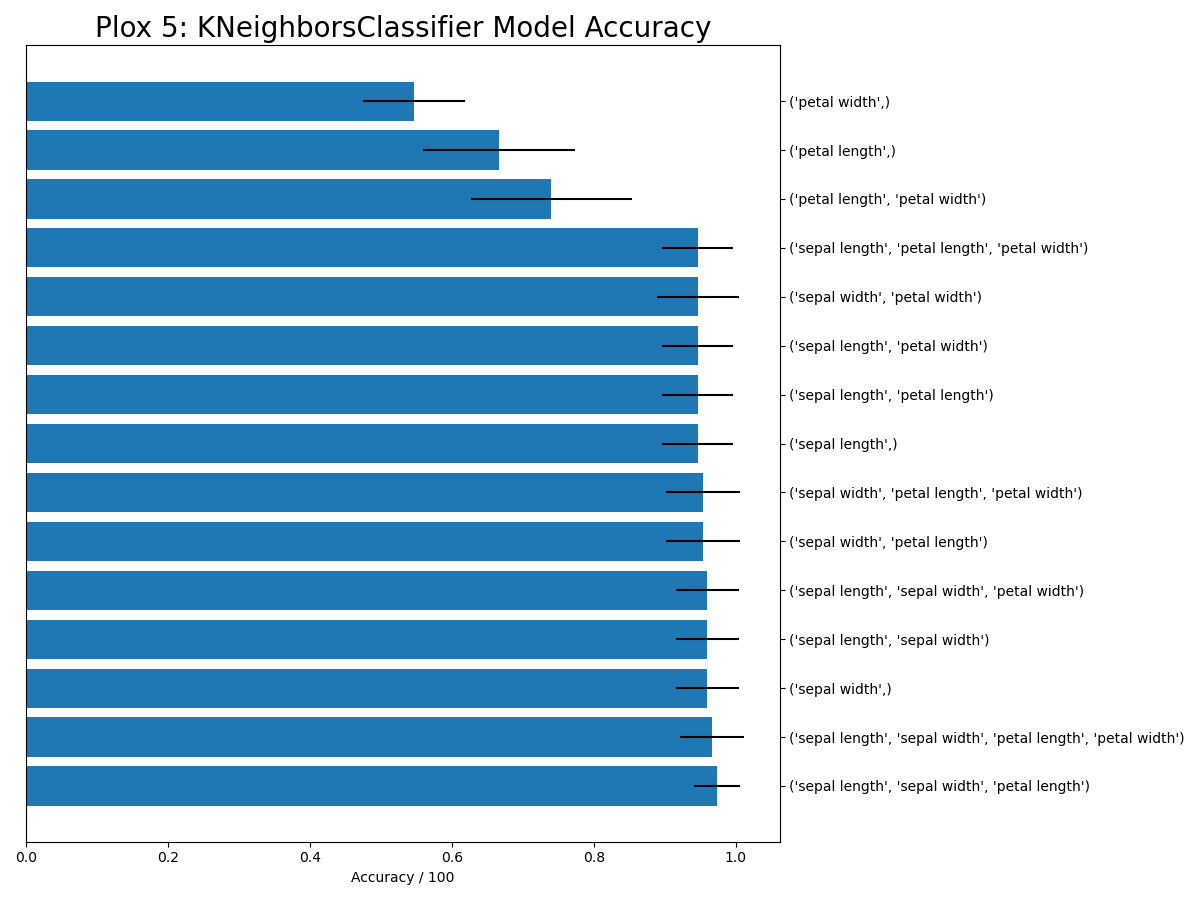
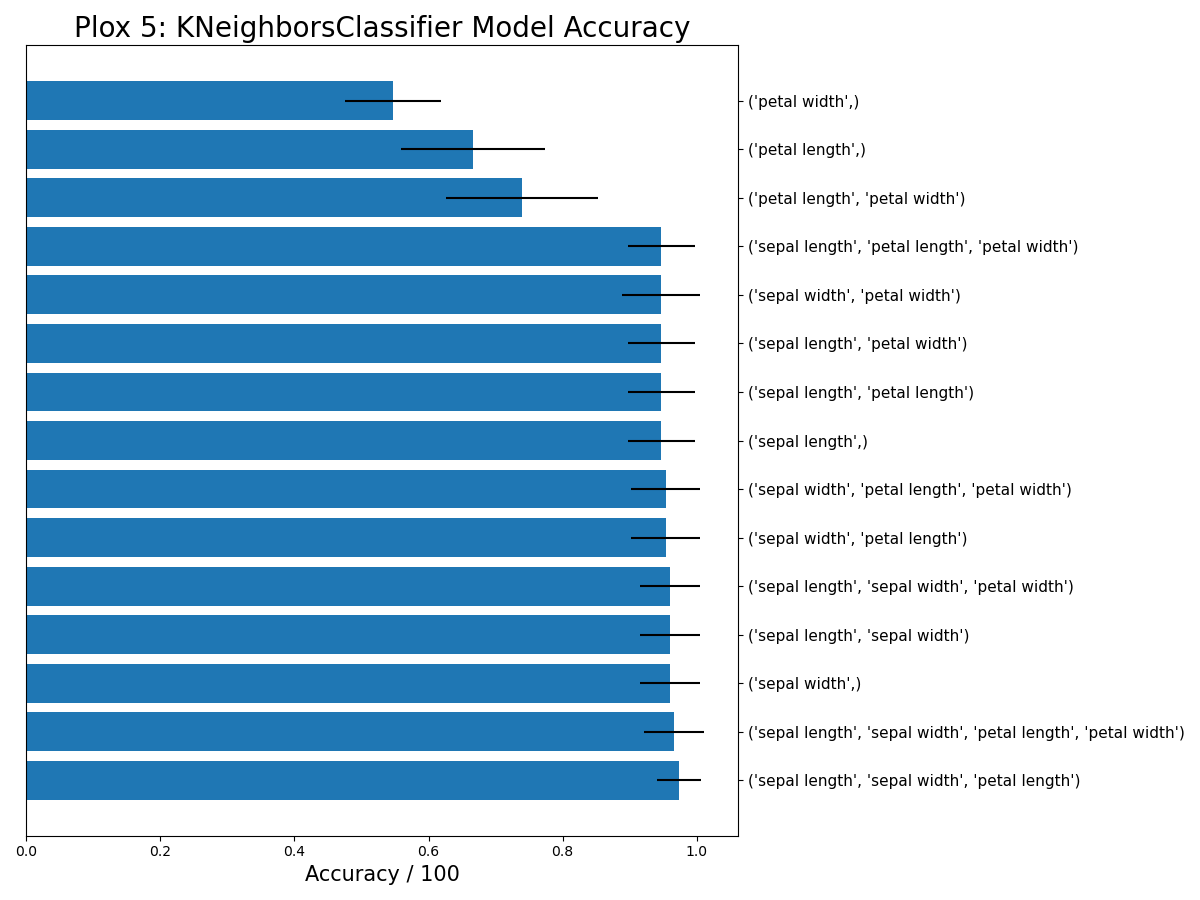
Text and Label Update: README  analysis.py  machine_learning.py

diff --git a/machine_learning.py b/machine_learning.py
@@ -63,15 +63,18 @@ def knn_model_k_single(iris_data, iris_target_numeric):
     # Create bar chart on mean performance of each subset of features
     fig, ax = plt.subplots(figsize=(12,9))                                                  # create figure & axes
     plt.title('Plox 5: KNeighborsClassifier Model Accuracy', fontsize = 20)                 # add title   
+    
     y_pos = np.arange(len(df))                                                              # stores evenly spaced values that total the length of the df 
-    ax.barh(y_pos, df['avg_score'], xerr=df['std_dev'])                                     # sets chart parameters
-    ax.set_yticks(y_pos)                                                                    # sets y positions 
-    ax.set_yticklabels(df['feature_names'])                                                 # sets y labels
+    ax.barh(y_pos, df['avg_score'], xerr=df['std_dev'])                                     # sets chart parameters 
+    ax.set_yticks(y_pos)                                                                    # sets y positions    
+    ax.set_yticklabels(df['feature_names'], fontsize = 11)                                  # sets y labels
     ax.yaxis.tick_right()                                                                   # y axis ticks right
-    ax.yaxis.set_label_position("right")                                                    # y axis labels right 
-    ax.set_xlabel('Accuracy / 100')                                                         # sets x axis labels
+    ax.yaxis.set_label_position("right")                                                    # y axis labels right   
+    
+    ax.set_xlabel('Accuracy / 100', fontsize = 15)                                          # sets x axis labels
     fig.tight_layout()                                                                      # adjust plot format to frame size
     plt.savefig('Images/' + 'plot5_knn_model_k_single' +'.png')   
+
 
 
 def knn_model_k_multiple(iris_data, iris_target_numeric):

diff --git a/analysis.py b/analysis.py
@@ -41,7 +41,7 @@ class summary_creator:
         # writes the summaries (w = overwrite) to text file, operation will make file if doesnt exist
     def write_function(self):
         with open('summary_file.txt', 'w') as f: 
-                 
+
             spacing_variable = ('\n' * 3)
             f.write('Fisher Iris Dataset Summary' + spacing_variable)
             f.write('Number of columns = {} \nNumber of rows = {}{}'.format(summary_creator_val.shape[0],summary_creator_val.shape[1],spacing_variable)) 
@@ -151,7 +151,7 @@ def scatter_plot():
 # Waskom, M, 2021, seaborn.seaborn.regplot, viewed 23 April 2021, https://seaborn.pydata.org/generated/seaborn.regplot.html.
     fig, axes = plt.subplots(2, 3, figsize=(22, 18))
     plt.subplots_adjust(wspace=0.2,hspace=0.4)
-    fig.suptitle('Plot 4: Scatter Plot of all variables (units = cm)',fontsize = 25)
+    fig.suptitle('Plot 4: Scatter Plot of all variables (units = cm)',fontsize = 30)
 
     sns.regplot(ax=axes[0, 0], data=iris_df, x='petal_length', y='petal_width')
     sns.regplot(ax=axes[0, 1], data=iris_df, x='petal_length', y='sepal_length')

diff --git a/README.md b/README.md
@@ -155,7 +155,7 @@ The first 5 rows of the Dataframe were observed by passing 5 into the *df.head(n
 
 <br/>
 
-| <img src="fig3_Images/df_head(5).png"  width="525"/>|
+| <img src="Images/fig3_df_head(5).png"  width="525"/>|
 |----------|
 | Fig 3.|
 
@@ -266,7 +266,8 @@ The following observations were drawn from Fig 8:
 <br/>
 
 __Boxplot Analysis:__ <br/>
-In addition to the analyis already performed it was considered necessary to visualise the data distriubtion with the same y-axis scaling for each iris feature across all species. The boxplot came to mind as a suitable plotting method as it displays the data distribution in a standardized way and yields information on the symmetry and outliers in the dataset (see Plot 3 [FX*]). 
+In addition to the histogram already performed it was considered necessary to visualise the data distriubtion with the same y-axis scaling for each iris feature across all species. The boxplot came to mind as a suitable plotting method as it displays the data distribution in a standardized way and yields information on the symmetry and outliers in the dataset (see Plot 3 [FX*]). 
+
 
 <br/>
  <!--- Plot 3 --->
@@ -307,7 +308,7 @@ The pandas library has a useful method called *.corr* which can be used to compu
 
 <br/>
 
-Figure 9 pairwise correlation data re-affirmed the correlation observations made from the scatter plots with petal length and petal width showing the highest positive linear correlation with a value of 0.96. 
+Figure 9 pairwise correlation data re-affirmed the correlation observations made from the scatter plots with petal length and petal width showing the highest positive linear correlation with a value of 0.96. It is also apparent from Fig 9 that Multicollinearity is at play in this dataset as there is degree of intercorrelation between some of the iris feaures. The effect of this will be explored further using a machine learning model.
 
 <br/>
 
@@ -322,7 +323,7 @@ __3.3.2 Choosing a Model__
 
 One aim of this project was gain a basic understanding of Machine Learning. With this in mind it was decided import the *sklearn* library to explore one of the simpler models and run it on the Iris Dataset in an attempt to classify the target species. The k-nearest neighbors (KNN) algorithm is a simple, supervised machine learning algorithm that can be used to solve both classification and regression problems [Harrison 2018]. As described by Harrison 2018 the model works by finding the distances between a query and all the examples in the data, selecting the specified number examples (K) closest to the query. When used for classification purposes the algorithm then votes for the most frequent label when applied.
 
-In an attempt to better understand how feature selection can impact the KNN model performance the Exhaustive Feature Selector (EFS) wrapper method was used to evaluate the model performance across all possible combinations of features in the dataset. An initial value of K = 3 was selected, with the aim to test more k values thereafter. A k fold cross validation vallue of 10 was selected as this value has been found through experimentation to generally result in low bias (i.e the datset will be divded into 5 parts for testing / training purposes) [FX*]. Note: Altough EFS slows model performance (Malik 2021), it was still used for investigation purposes).
+In an attempt to better understand how feature selection can impact the KNN model performance the Exhaustive Feature Selector (EFS) wrapper method was used to evaluate the model performance across all possible combinations of features in the dataset. An initial value of K = 3 was selected, with the aim to test more k values thereafter. A cross validation value of 10 was selected as this value has been found through experimentation to generally result in low bias (i.e the datset will be divded into 10 parts for testing / training purposes) [FX*]. Note: Altough EFS slows model performance (Malik 2021), it was still used for investigation purposes).
 
 <br/>
 
@@ -330,7 +331,7 @@ In an attempt to better understand how feature selection can impact the KNN mode
 
 <br/>
 
-The results from plot X are very interesting. The petal features overall performed worse at prediciting the Iris species, while the sepal dimensions performed better. There appears to be a link with variables having high correlation and a reduced ability to make accurate model predictions. This would make sense as the more correlated variables are, the harder it would be to alter their dimension without altering another variable in a similar way. To add to this, the model performed best when the variable with the highest degree of correlation was dropped (petal width).
+The results from plot 5 are very interesting. The petal features overall performed worse at prediciting the Iris species, while the sepal dimensions performed better. There appears to be a link with variables having high correlation and a reduced ability to make accurate model predictions. This would make sense as the more correlated variables are, the harder it would be to alter their dimension without altering another variable in a similar way. To add to this, the model performed best when the variable with the highest degree of correlation was dropped (petal width) and worst when the most highly correlated variable (petal width) was used to solely train the model.
 
 <br/>
 
@@ -338,7 +339,7 @@ For the last part of this project the KNN model was expored in more detail in a 
 
 <br/>
 
- <img src="Images/plot6_knn_model_k_multiple.png"  width="600"/>|
+ <img src="Images/plot6_knn_model_k_multiple.png"  width="600"/>
 
  <br/>
 
